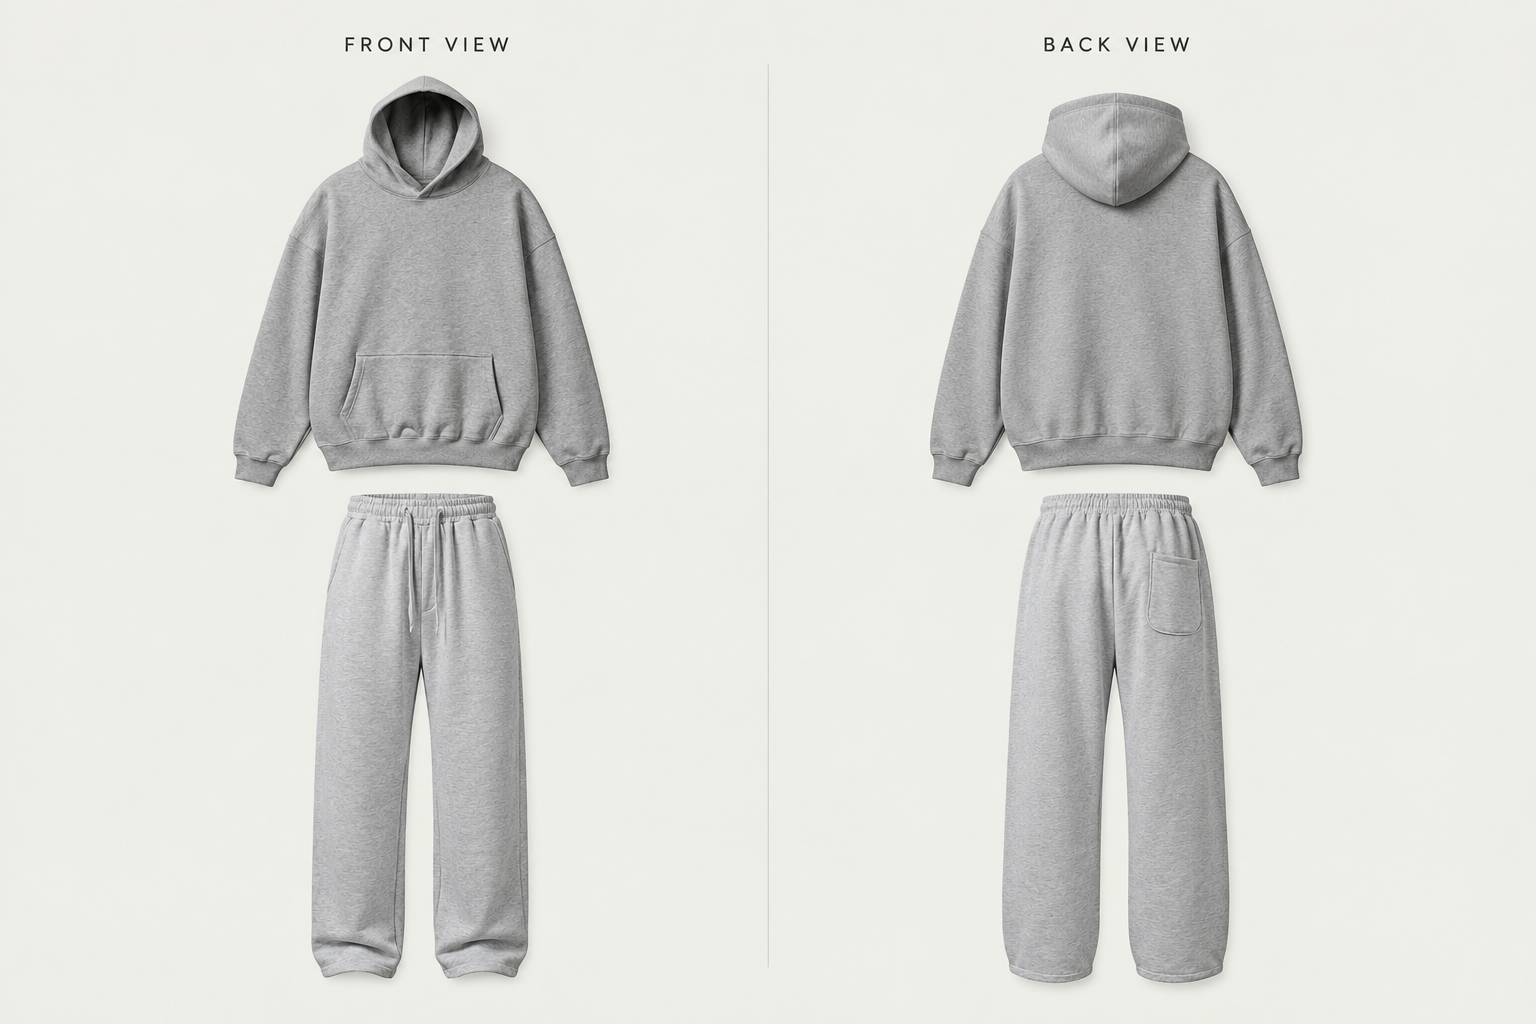
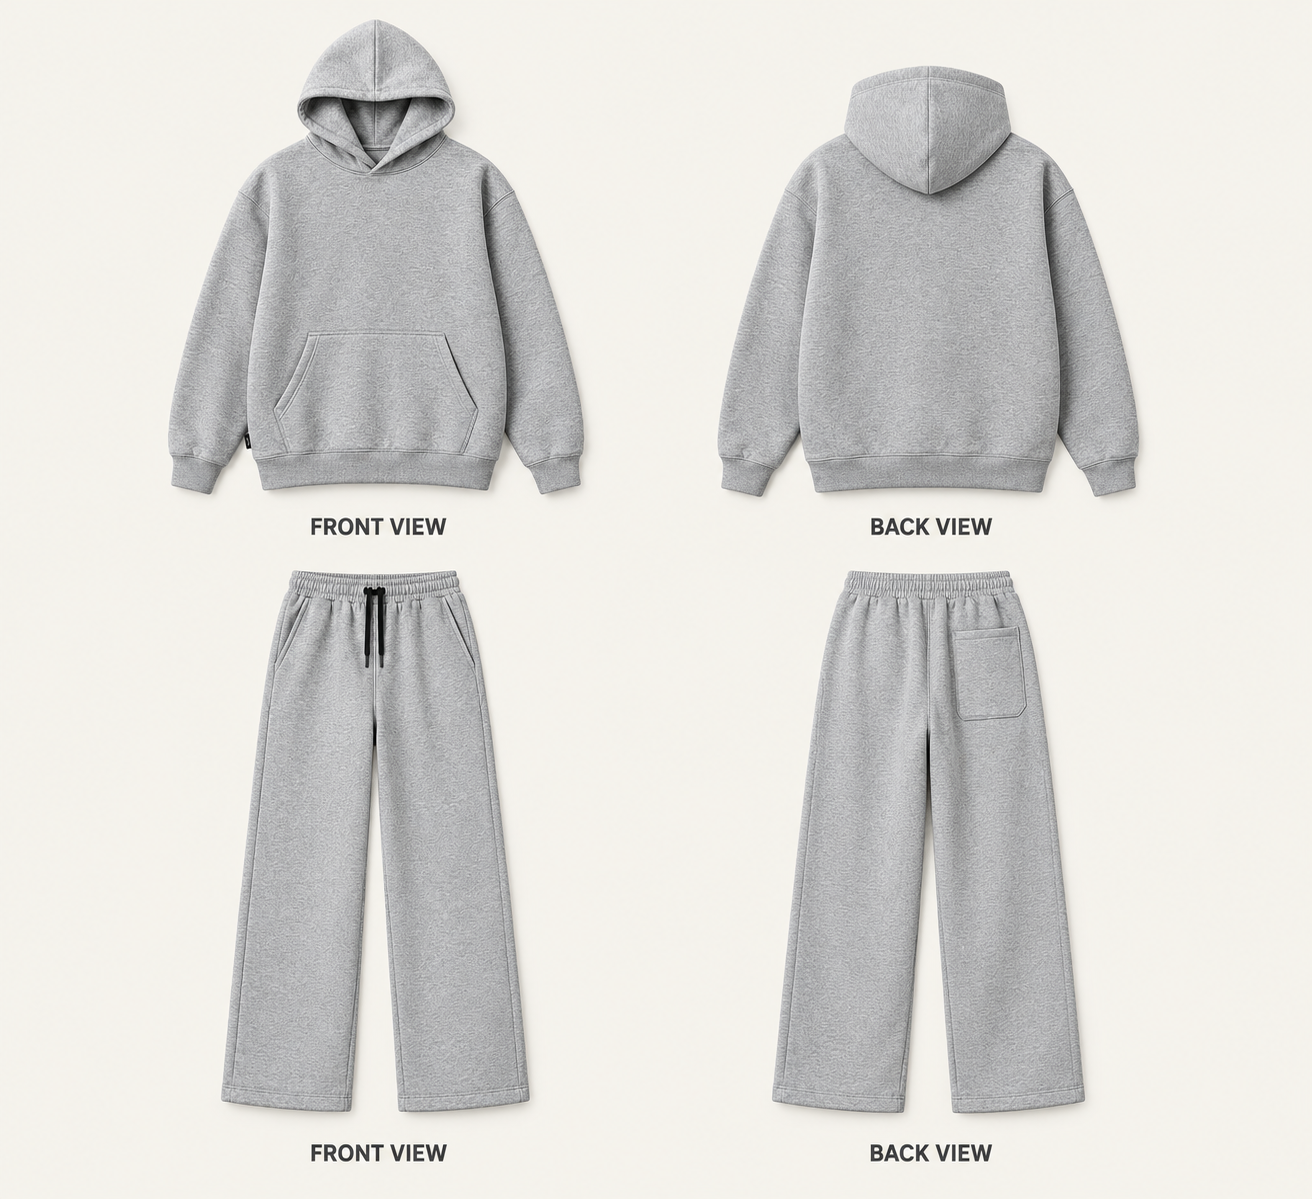
change

Changed region(s): [[0.125, 0.0, 0.4688, 0.9688], [0.5312, 0.0312, 0.875, 0.9688]]

diff --git a/src/data/products.js b/src/data/products.js
@@ -1,7 +1,7 @@
 
 import hoodie from '../assets/hoodie.png'
 import trouser from '../assets/trouser.png'
-import set from '../assets/sweatAndTrouser.png'
+import set from '../assets/set.png'
 export const products = [
   {
     id: 'hoodie',
